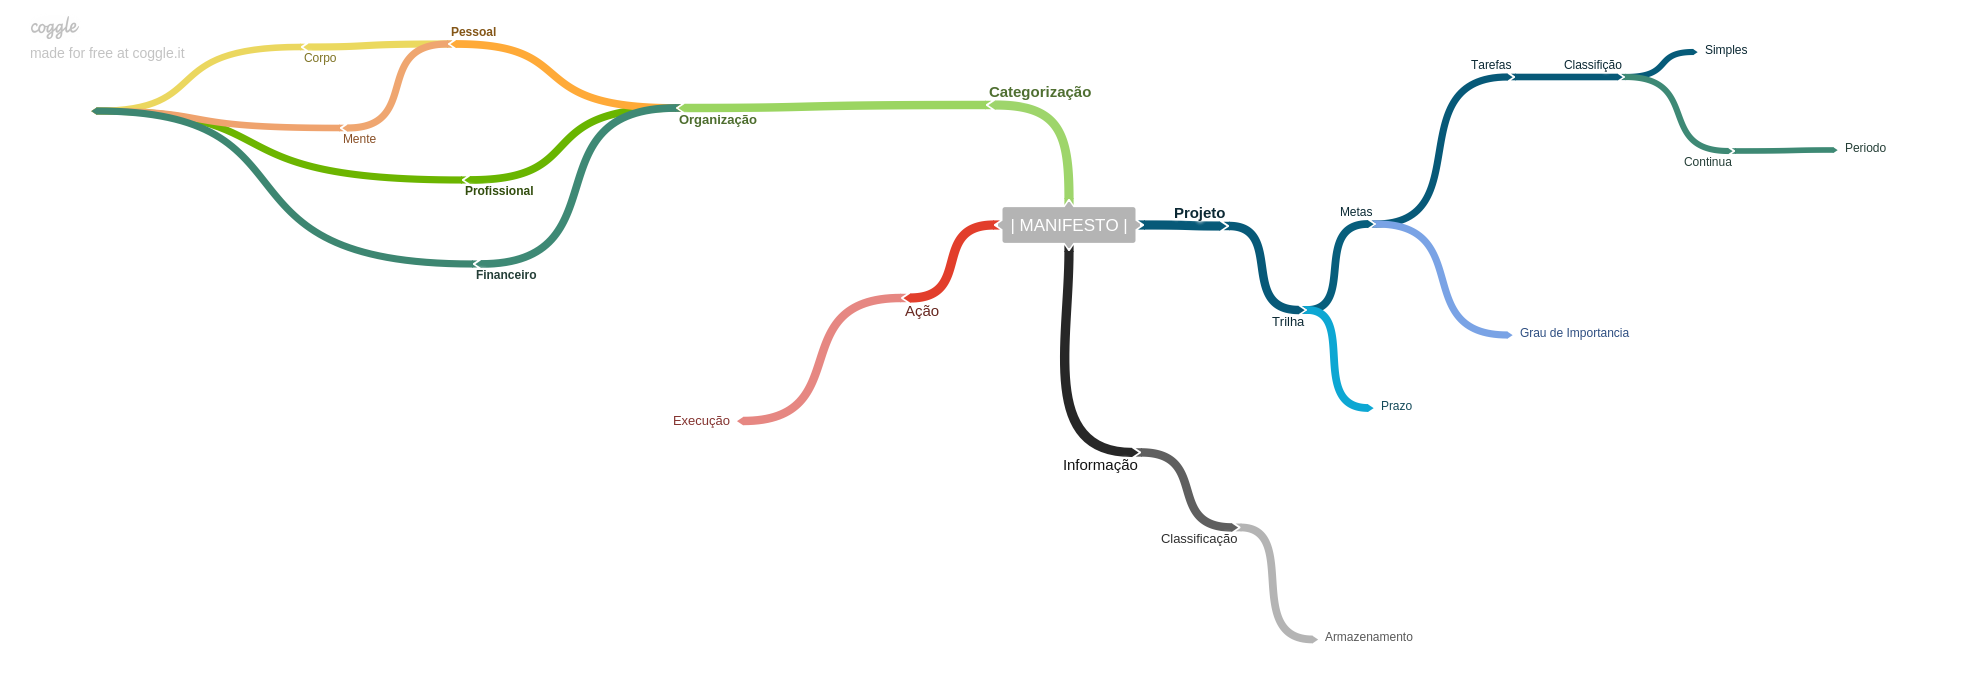
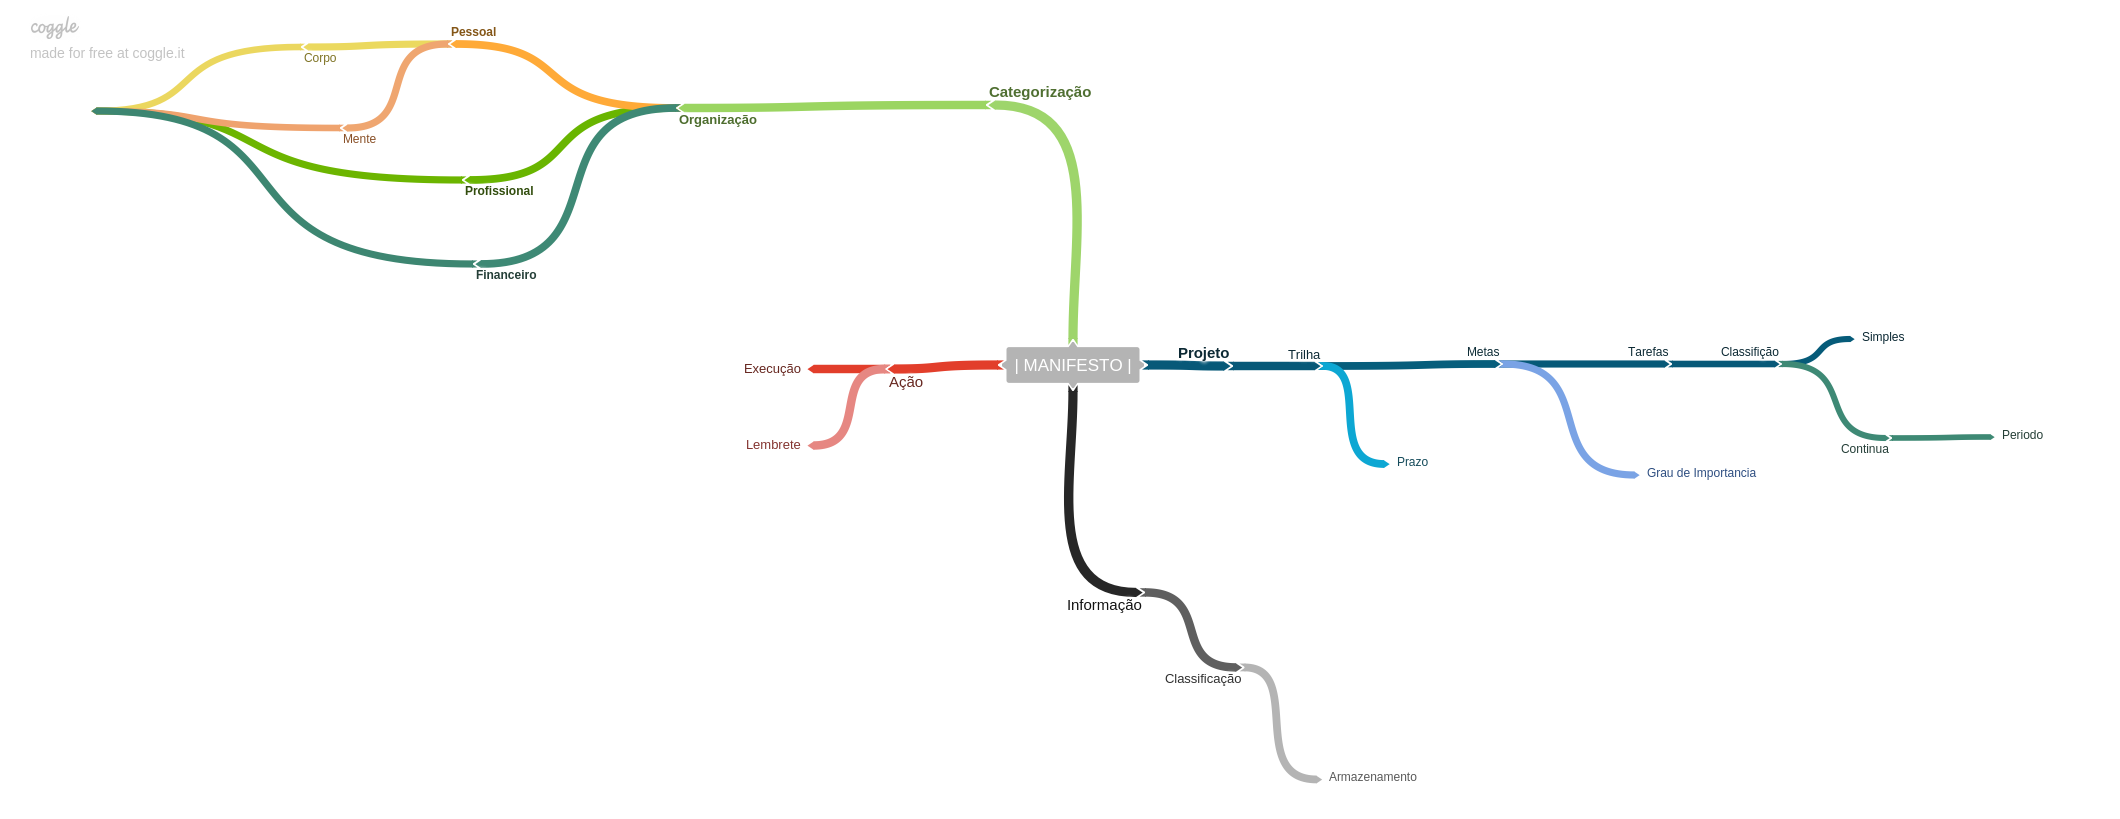
add processos.md

diff --git a/README.md b/README.md
@@ -14,32 +14,32 @@ A informação é avaliada com base no MANIFESTO DE CLASSIFICAÇÃO, depois é d
 # Grupos
  > ##  Projeto
  Um projeto é um processo que demanda mais tempo e possui sempre ao menos uma trilha, ele não possui um prazo e só pode ser considerado como concluido quando todas as suas trilhas forem finalizadas com sucesso.  
- **Um exemplo de projeto é**  _Aprender um segundo idioma_
+ **Um exemplo de PROJETO é**  _Aprender um segundo idioma_
 
 
 > ## Informação
 Todo conteudo que é considerado como sendo util e que NÃO esteja relacionado de forma direta a uma tarefa é considerado uma informação.  
-**Um exemplo de informação é** _Um artigo sobre processos economicos_
+**Um exemplo de INFORMAÇÃO é** _Um artigo sobre processos economicos_
 
 > ## Ação
-Toda tarefa que possa ser realizada em um tempo inferior a **10 minutos**.  
-**Um exemplo de ação é** _Pagar uma conta no caixa_
+Toda tarefa que possa ser realizada em um tempo inferior a **10 minutos**. Tarefas que dependem de terceiros são classificadas como LEMBRETES
+**Um exemplo de AÇÃO é** _Pagar uma conta no caixa_
 
 ## SubGrupos
 > ## Trilha
 É um conjunto de METAS com um prazo final para que todas sejam concluidas, é considerada como concluida com sucesso quando todas as suas METAS são finalizadas dentro do prazo.  
-**Um exemplo de TRILHA:** _Playlist sobre DDD_
+**Um exemplo de TRILHA é** _Playlist sobre DDD_
 > ## Meta
  É o objetivo de duas ou mais tarefas, sendo que uma meta só esta concluida quando todas as suas TAREFAS forem concluidas,
- Uma meta possui um grau de importancia que dertermina o quanto esta deve ser priorizada em comparação as outras da mesma TRILHA.  
- **Um exemplo de META:** _Chegar a 30% no Duolingo_
+ Uma meta possui um grau de importancia que determina o quanto esta deve ser priorizada em comparação as outras da mesma TRILHA.  
+ **Um exemplo de META é** _Chegar a 30% no Duolingo_
 
 > ## Tarefa
 É uma ação que deve ser classificada com base em sua DURAÇÃO, desse modo pode-se determinar se ela é:
  - Continua: A mesma tarefa sendo repetida diariamente dentro de um determinado periodo que pode ou não ter um termino previsto
  - Simples: Um tarefa que pode ser executada dentro de 24 horas, sem dependencias de terceiros  
 
-**Um exemplo de TAREFA:** _Assistir a aula de C# no [Pluralsight]( pluralsight.com)_
+**Um exemplo de TAREFA é** _Assistir a aula de C# no [Pluralsight]( pluralsight.com)_
 
 ---
 

diff --git a/docs/processo.md b/docs/processo.md
@@ -1,1 +1,26 @@
-# processo
+# Processos Comuns
+
+## Classificação e distribuição de uma informação qualquer
+
+- Entrada da informação por uma canal qualquer _(e-mail, link, mensagem de voz, telefone e etc)_
+- Seguindo as normas do manifesto a informação é classificada e deterecionada ao seu grupo correspondente
+- Informações que pertencem de forma direta a um **PROJETO** são guardadas em um quadro no **TRELLO**, sendo salva em seu subgrupo dentro do quadro.
+- Ações devem ser salvas dentro do **EVERNOTE** em um caderno que corresponda ao tipo de ação.
+- Se a informação for dependente de um terceiro ou de uma situação externa, seja ela qual for essa informação é colocada como lembrete dentro do **EVERNOTE**, mas ainda é considerada como **AÇÃO**.
+- Informações que devem ser persistidas são salvas dentro do **DRIVE** ou anotada no **CADERNO**, isso deve ser determinado pela nivel de sigilo, responsabilidade e utilidade da mesma.
+- Se a informação for um processo classificado como **TRILHA**, essa deve ter uma data de conclusão dentro do **CALENDAR**.
+- **METAS** são direcionadas para o **TRELLO** e devem possuir **ETIQUETAS** que determinam seu grau de importância.
+- **TAREFAS CONTINUAS** são adicionadas como **META** dentro do **CALENDAR** com um horario e dias definidos, pode-se deixar o aplicativo definir o melhor horario no caso de tarefas que não que vão impactar diretamente outras tarefas diarias.
+- **TAREFAS SIMPLES** são salvas dentro do **TRELLO**, pois toda tarefa pertence a um **PROJETO**.
+- Deve existir ao menos dois __notebooks__ dentro do **EVERNOTE** para classificar as ações e informações.
+- Nenhuma **AÇÃO** que não seja um **LEMBRETE** pode ter um agendamento.
+
+## Cancelamento ou remoção de uma informação qualquer
+
+- **TODAS** as informações podem ser removidas de qualquer base/aplicativo de controle, contando que seja justificado o motivo da exclusão.
+- Pode-se criar um local dentro de cada plataforma para se mover essas informações ao inves de exclui-las.
+- **PROJETOS** excluidos devem ter sua descrição e justificativa de exclusão salvas dentro d **DRIVE**
+- Excluir uma informação é considerado como **AÇÃO**, portanto deve ser adicionada ao **EVERNOTE**.
+
+
+
